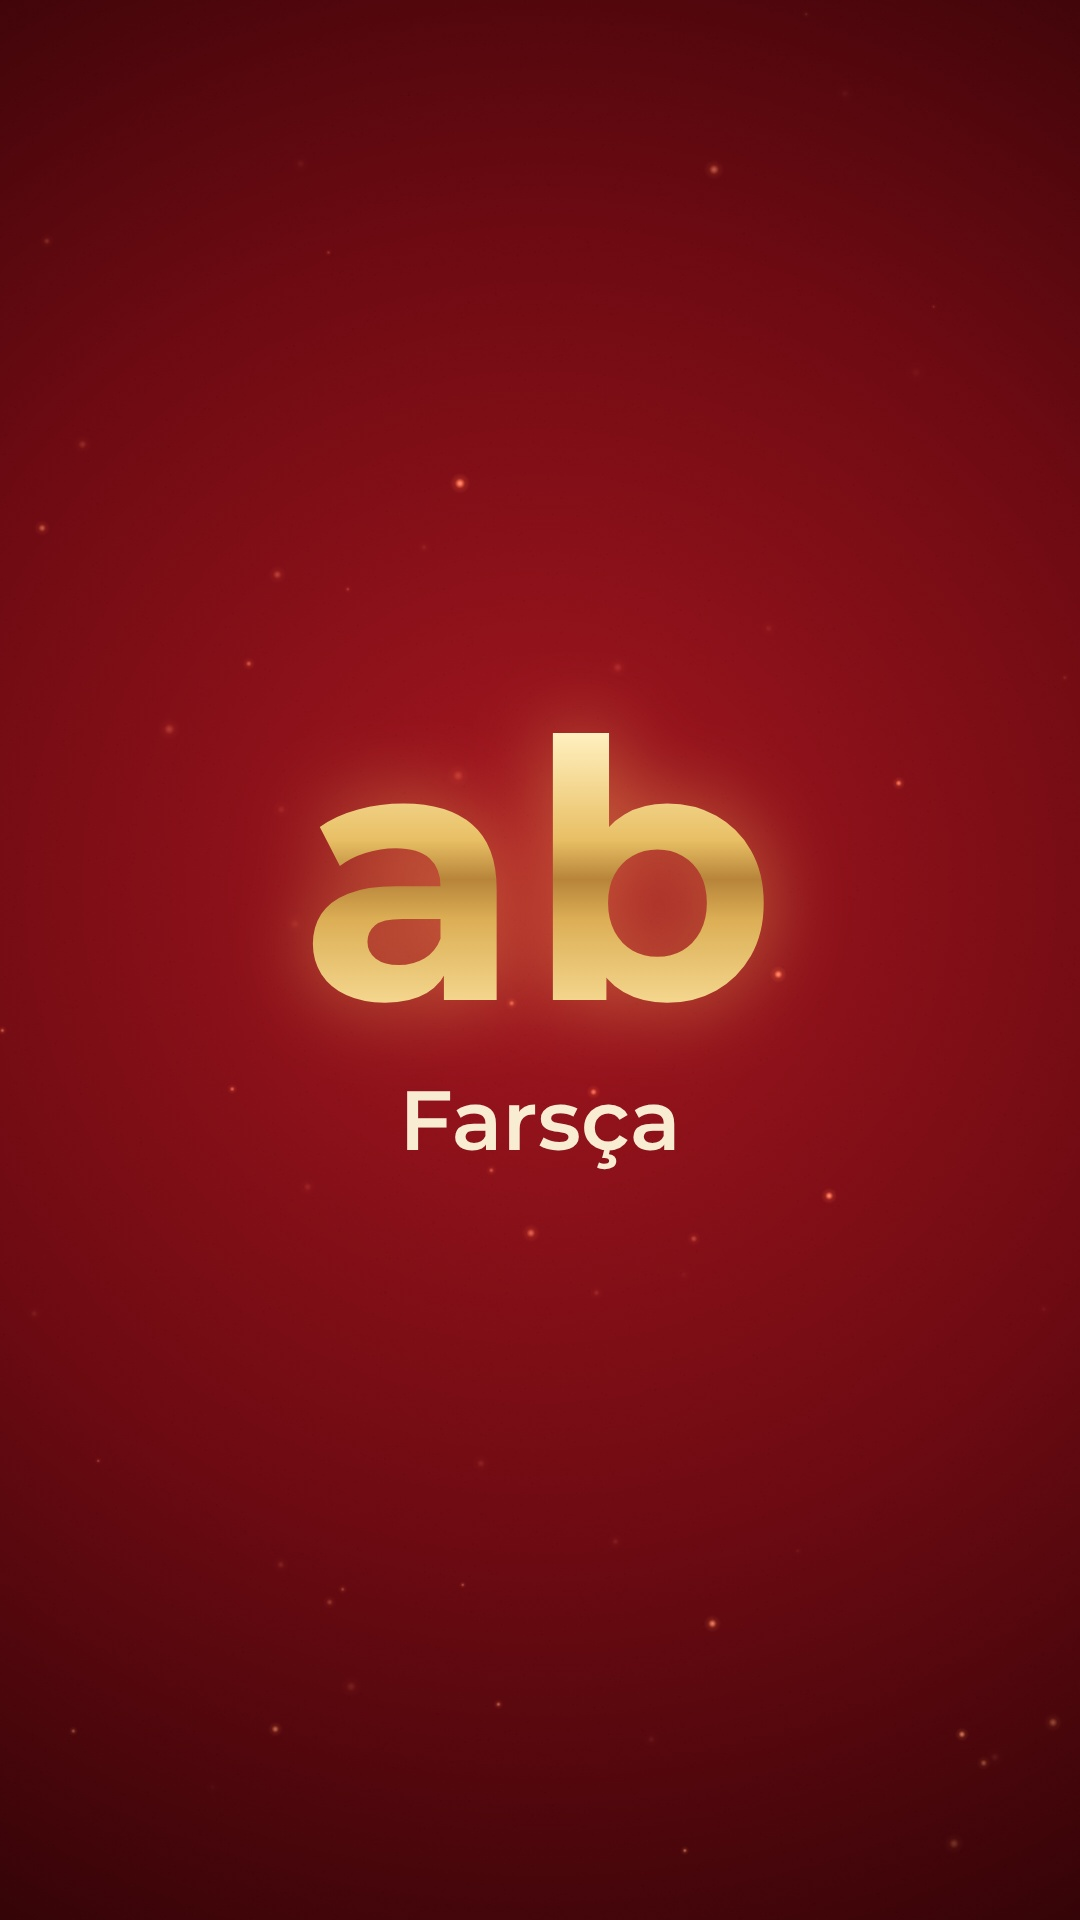
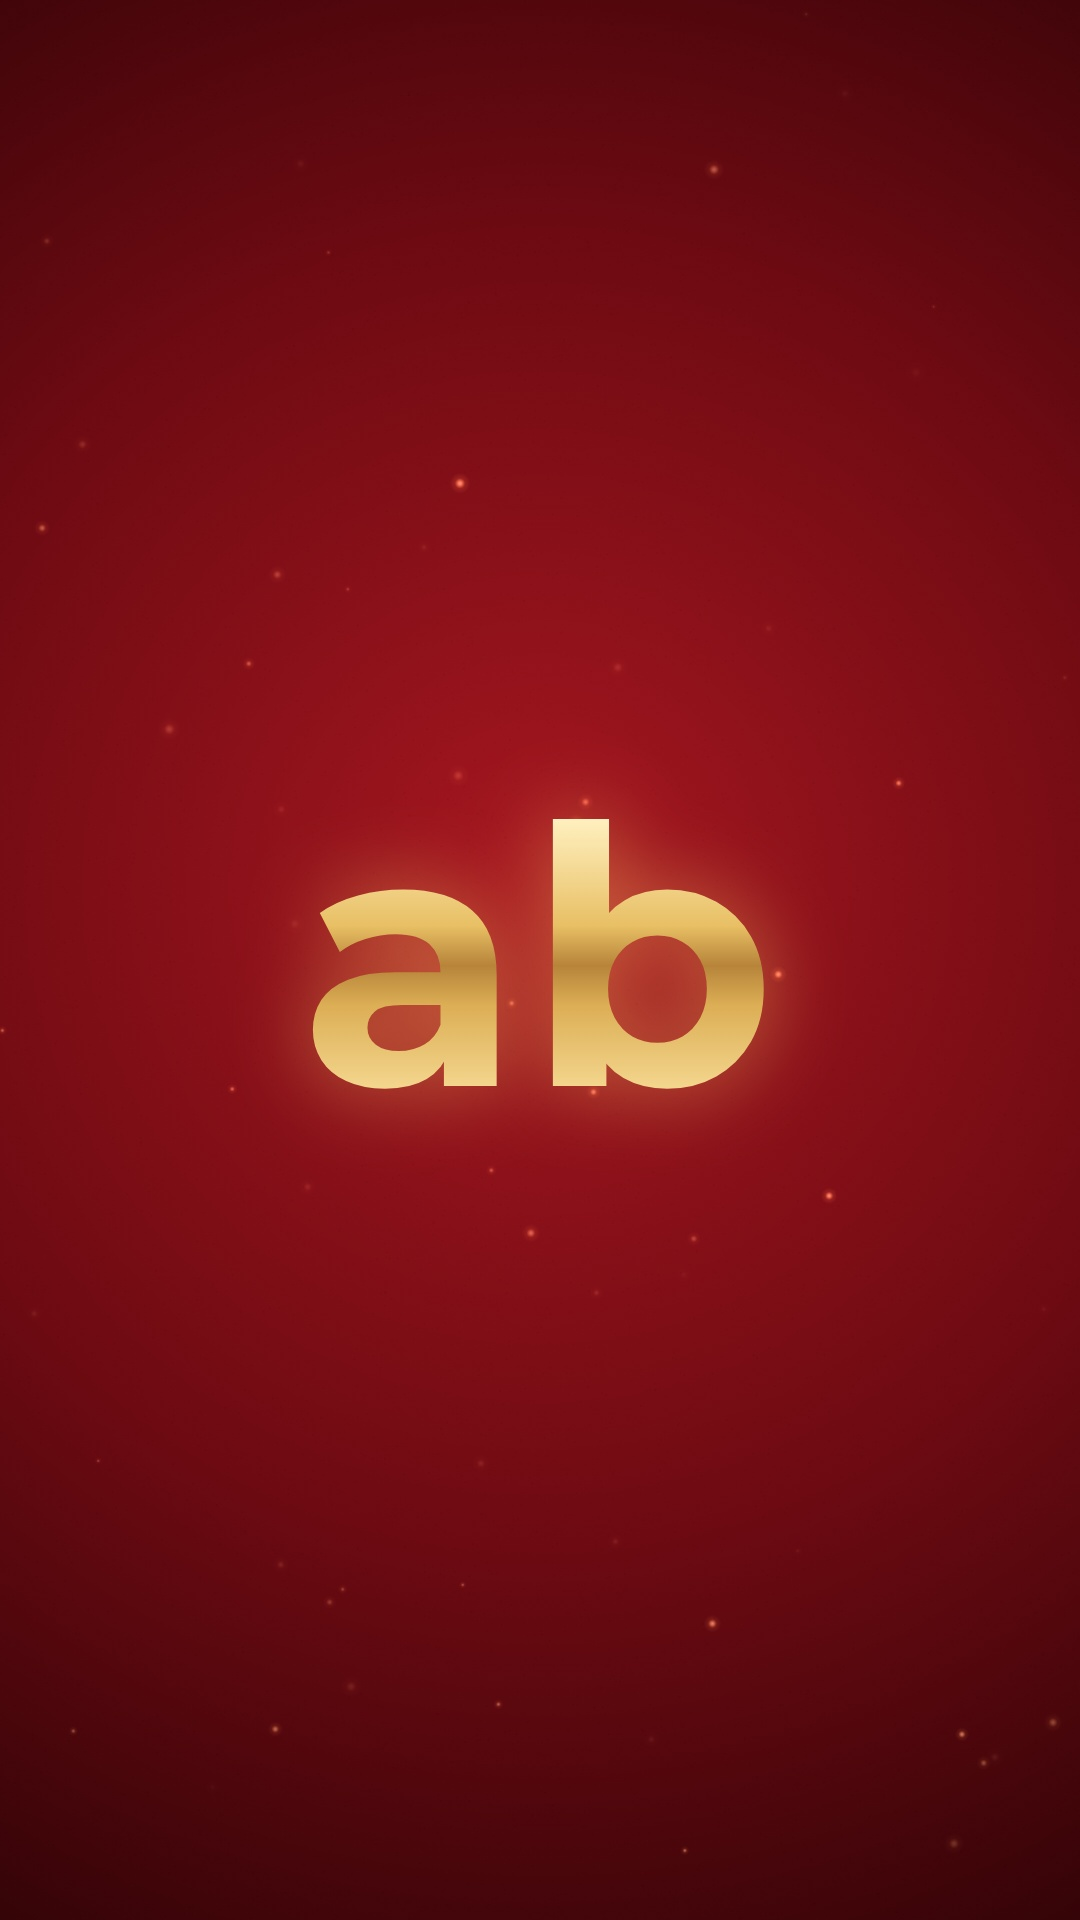
Make the default cover show only the word
The word-and-origin version is kept as kelime_<word>_kapak_koken.jpg;
cover.mjs now writes both.

Claude-Session: https://claude.ai/code/session_01BVFJ2MhibZKG472cZRdzPF

Changed region(s): [[0.275, 0.375, 0.7333, 0.625]]

diff --git a/kelime/anim.js b/kelime/anim.js
@@ -620,19 +620,20 @@ window.init = function (cv) {
   makeTextures();
   makeBackground();
 };
-// Kapak görseli: yalnızca kelime ve kökeni, dikey ortada (Instagram ızgarasındaki 3:4 kırpmada da tam görünür).
-window.renderCover = function () {
+// Kapak görseli: kelime (isteğe bağlı olarak altında kökeni), dikey ortada (Instagram ızgarasındaki 3:4 kırpmada da tam görünür).
+window.renderCover = function (withOrigin) {
   ctx.setTransform(1, 0, 0, 1, 0, 0);
   ctx.globalAlpha = 1; ctx.globalCompositeOperation = 'source-over'; ctx.filter = 'none';
   drawBackground(ctx);
   drawParticles(ctx, 0, 0);
-  const size = fitFont(ctx, 700, 360, 'Montserrat', WORD.word, 940, 5), y = 1000;
+  const size = fitFont(ctx, 700, 360, 'Montserrat', WORD.word, 940, 5), y = withOrigin ? 1000 : 960 + size * 0.35;
   ctx.save();
   ctx.font = `700 ${size}px Montserrat`; ctx.letterSpacing = (size * 0.015) + 'px'; ctx.textAlign = 'center';
   ctx.shadowColor = 'rgba(255,190,100,0.5)'; ctx.shadowBlur = size * 0.22;
   ctx.fillStyle = goldGrad(ctx, y - size * 0.74, y + size * 0.04);
   ctx.fillText(WORD.word, W / 2, y);
   ctx.restore();
+  if (!withOrigin) return;
   const sz = fitFont(ctx, 600, 84, 'Montserrat', WORD.origin.lang, 940);
   runsLine(ctx, [{ t: WORD.origin.lang, font: `600 ${sz}px Montserrat`, size: sz }], W / 2, y + 150, 1);
 };

diff --git a/kelime/README.md b/kelime/README.md
@@ -6,7 +6,7 @@ Tasarım bilinçli olarak sade tutuldu: kapakta motif yok, yazıların çevresin
 
 - **Sesli:** [`output/kelime_ab.mp4`](../output/kelime_ab.mp4)
 - **Sessiz** (Instagram'da kendi müziğinizi eklemek için): [`output/kelime_ab_sessiz.mp4`](../output/kelime_ab_sessiz.mp4)
-- **Kapak görseli** (9:16, yalnızca kelime ve kökeni): [`output/kelime_ab_kapak.jpg`](../output/kelime_ab_kapak.jpg)
+- **Kapak görseli** (9:16 dikey): yalnızca kelime [`output/kelime_ab_kapak.jpg`](../output/kelime_ab_kapak.jpg), altında kökeniyle [`output/kelime_ab_kapak_koken.jpg`](../output/kelime_ab_kapak_koken.jpg)
 
 ![Kareler](storyboard.jpg)
 
@@ -40,7 +40,7 @@ Yayından önce tanımı [sozluk.gov.tr](https://sozluk.gov.tr) üzerinden teyit
 ```bash
 python3 kelime/audio.py                 # kelime/out/soundtrack.wav
 node kelime/render.mjs --word insirah    # output/kelime_insirah.mp4 ve _sessiz.mp4
-node kelime/cover.mjs --word insirah     # output/kelime_insirah_kapak.jpg
+node kelime/cover.mjs --word insirah     # output/kelime_insirah_kapak.jpg ve _kapak_koken.jpg
 ```
 
 Önizleme için `kelime/index.html?word=ab` dosyasını tarayıcıda açın. `node kelime/stills.mjs <klasör> --word ab 3.3 9 14` komutu seçtiğiniz saniyelerden PNG kareler alır.
@@ -58,11 +58,11 @@ kelime/
   audio.py       döngüye uygun müzik ve efekt sentezi
   render.mjs     kare kare render ve ffmpeg ile MP4 (H.264 + AAC)
   stills.mjs     tek tek kare almak için yardımcı
-  cover.mjs      kapak görseli (kelime ve kökeni)
+  cover.mjs      kapak görselleri (yalnızca kelime; kelime ve kökeni)
   fonts/         Montserrat ve Noto Naskh Arabic (SIL OFL), yerel kopya
 ```
 
 ## Instagram notları
 
 - Önemli içerik ekranın üstteki 220 ve alttaki 400 pikselinin dışında kalıyor, böylece Reels arayüzünün altında kalmıyor.
-- Kapak olarak `output/kelime_ab_kapak.jpg` dosyasını kullanabilirsiniz. Kelime ve kökeni ekranın tam ortasında olduğu için profil ızgarasındaki 3:4 kırpmada da tamamen görünür. Videodan bir kare seçmek isterseniz 17. saniyede bütün bilgiler bir arada ([`poster.jpg`](poster.jpg)).
+- Kapak olarak `output/kelime_ab_kapak.jpg` (yalnızca kelime) ya da `output/kelime_ab_kapak_koken.jpg` (kelime ve kökeni) dosyasını kullanabilirsiniz. Yazı ekranın tam ortasında olduğu için profil ızgarasındaki 3:4 kırpmada da tamamen görünür. Videodan bir kare seçmek isterseniz 17. saniyede bütün bilgiler bir arada ([`poster.jpg`](poster.jpg)).
